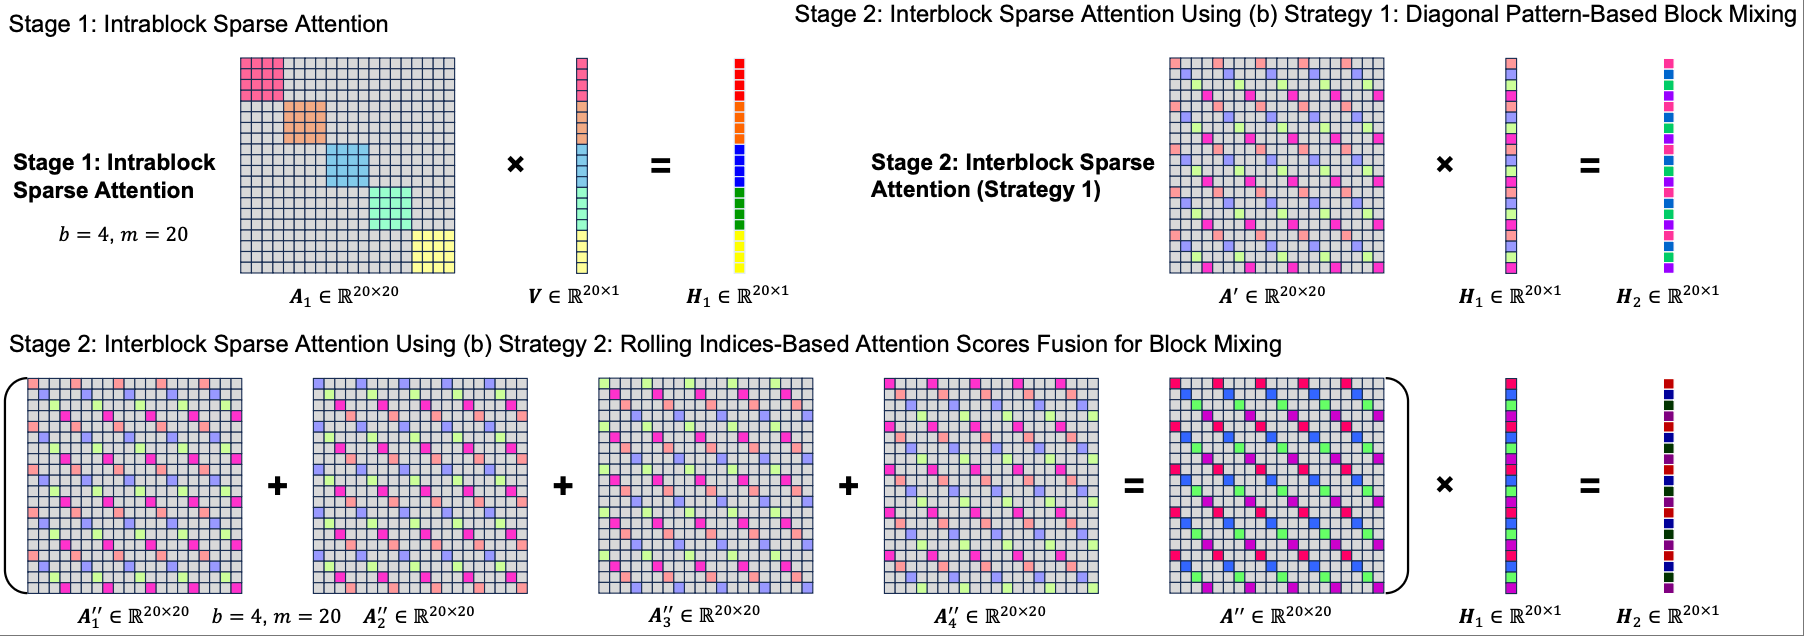
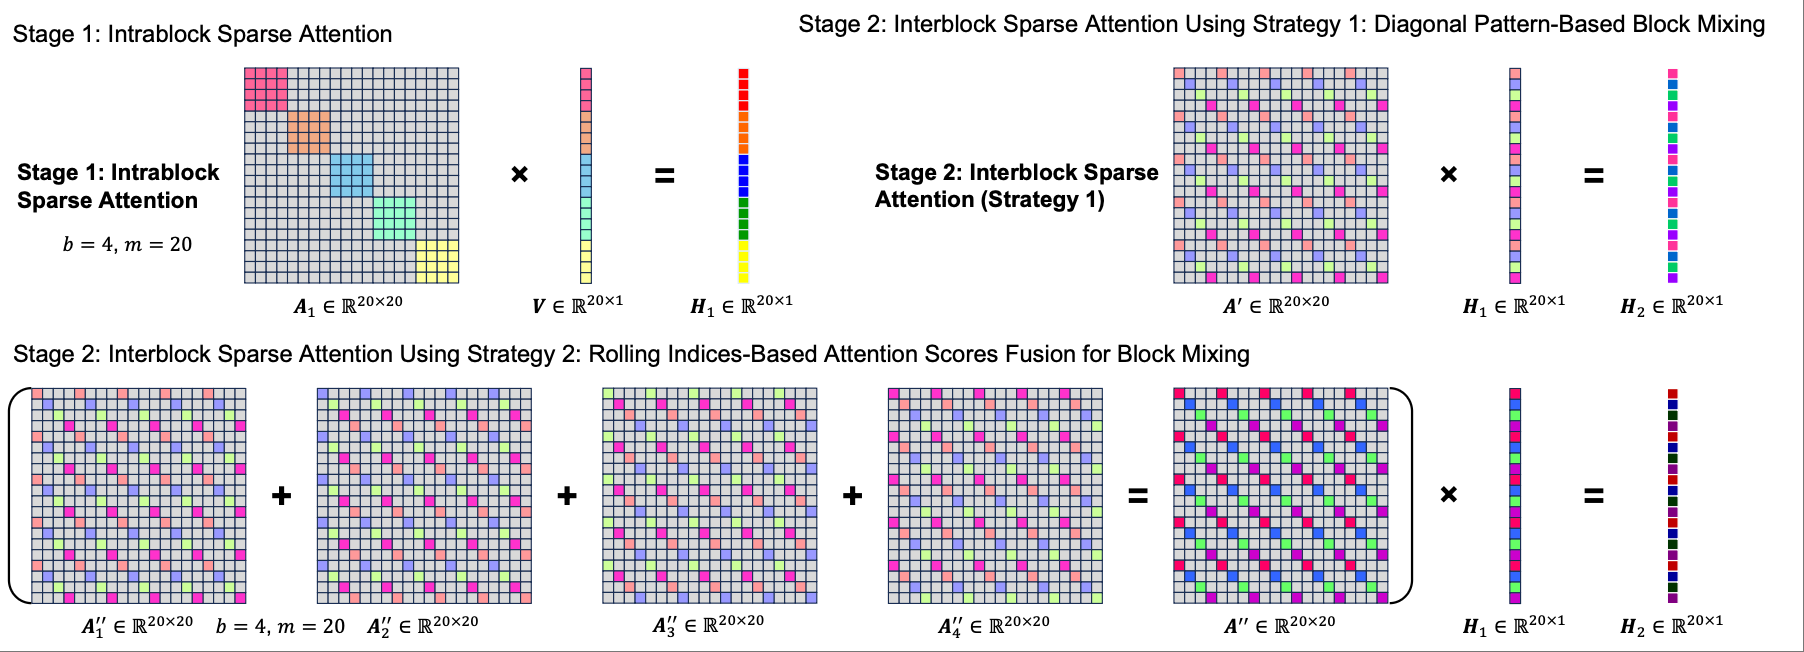
trigger rebuild

diff --git a/_pages/includes/pub.md b/_pages/includes/pub.md
@@ -1,6 +1,6 @@
 # 📝 Publications 
 
-<div class='paper-box'><div class='paper-box-image'><div><div class="badge">NeuIPS 2025</div><img src='images/Dusa.png' alt="sym" width="100%"></div></div>
+<div class='paper-box'><div class='paper-box-image'><div><div class="badge">NeuIPS 2025</div><img src='images/DuSA.png' alt="sym" width="100%"></div></div>
 <div class='paper-box-text' markdown="1">
 
 [DuSA: Fast and Accurate Dual-Stage Sparse Attention Mechanism Accelerating Both Training and Inference](https://neurips.cc/virtual/2025/poster/115603)
